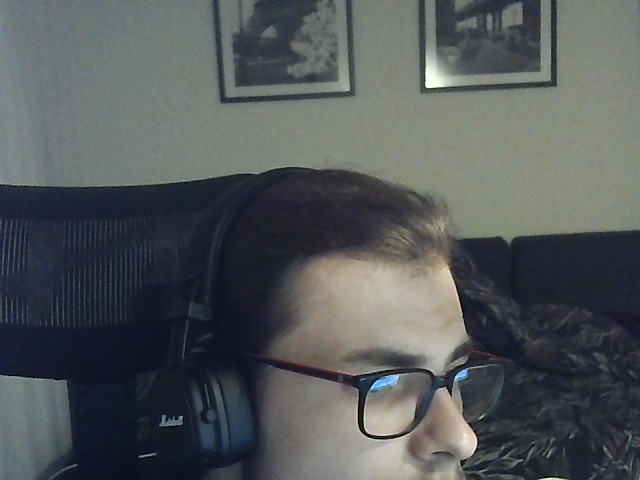
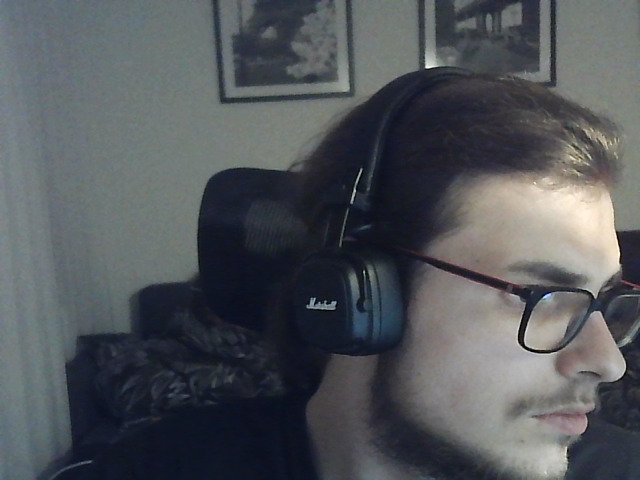
load frames from db

diff --git a/src/Pages/RankingPage.jsx b/src/Pages/RankingPage.jsx
@@ -1,13 +1,13 @@
 import FrameBox from "../Components/FrameBox"
-import { frameList } from "../utils/frames.js"
 import './../styles/RankingPage/RankingPage.css'
 import priceTransform from "../utils/priceTransform.js"
-export default function RankingPage() {
+export default function RankingPage({ data }) {
+    console.log(data)
     return (
         <div
         className="frames-box"
         >  
-            {frameList.map((item) => (
+            {data.map((item) => (
                 <FrameBox
                     price = {priceTransform(item.price)}
                     img = {item.img}
@@ -15,10 +15,11 @@ export default function RankingPage() {
                     material = {item.material}
                     color = {item.color}
                     mark = {item.mark}
-                    key={item.id}
+                    key={item._id}
                 />
-
+                
             ))}
+            
         </div>
     )
 }   

diff --git a/src/App.jsx b/src/App.jsx
@@ -4,15 +4,16 @@ import { BrowserRouter as Router, Routes, Route } from 'react-router-dom'
 import CamPage from './Pages/CamPage'
 import LogPage from './Pages/LogPage'
 import RankingPage from './Pages/RankingPage'
+import { useState } from 'react'
 
 function App() {
-
+  const [data, setData] = useState([]);
   return (
     <Routes>
 
       <Route path='/' element={<LogPage />} />
-      <Route path='/Cam' element={<CamPage />} />
-      <Route path='/Ranking' element={<RankingPage />} />
+      <Route path='/Cam' element={<CamPage setData={setData} />}/>
+      <Route path='/Ranking' element={<RankingPage data={data} />}/>
 
     </Routes>
   )

diff --git a/src/Pages/CamPage.jsx b/src/Pages/CamPage.jsx
@@ -2,7 +2,7 @@ import WebcamComponent from '../Components/WebcamComponent'
 import { useEffect, useState } from 'react'
 import { useNavigate } from 'react-router-dom';
 
-export default function CamPage() {
+export default function CamPage({ setData }) {
 
   const [file, setFile] = useState(null);
   const navigate = useNavigate();
@@ -48,6 +48,7 @@ export default function CamPage() {
 
       const res = await fetch('http://localhost:3000/ranking');
       const data = await res.json();
+      setData(data);
       console.log(data)
       setUploaded(false)
       return data
